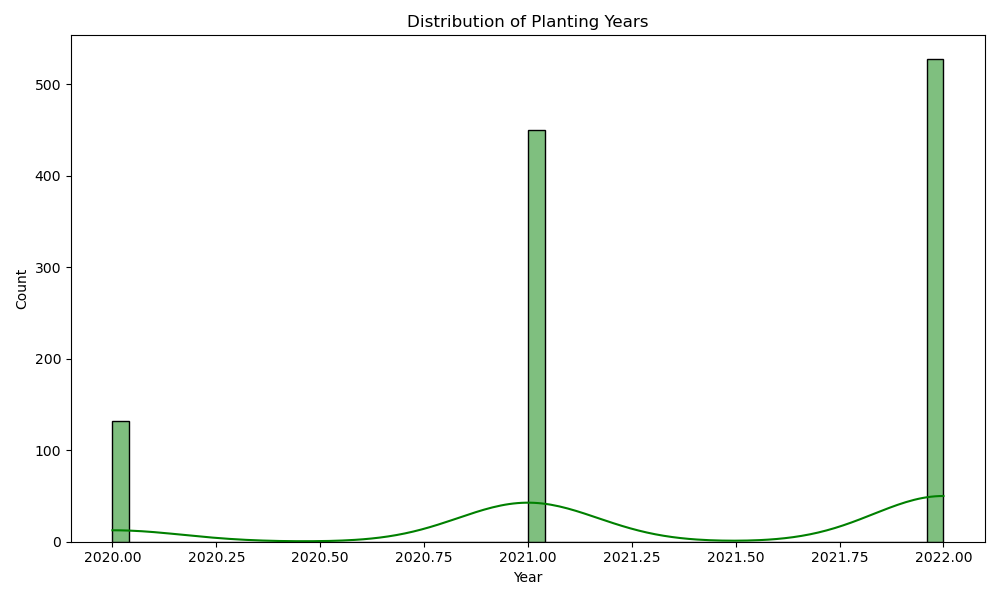
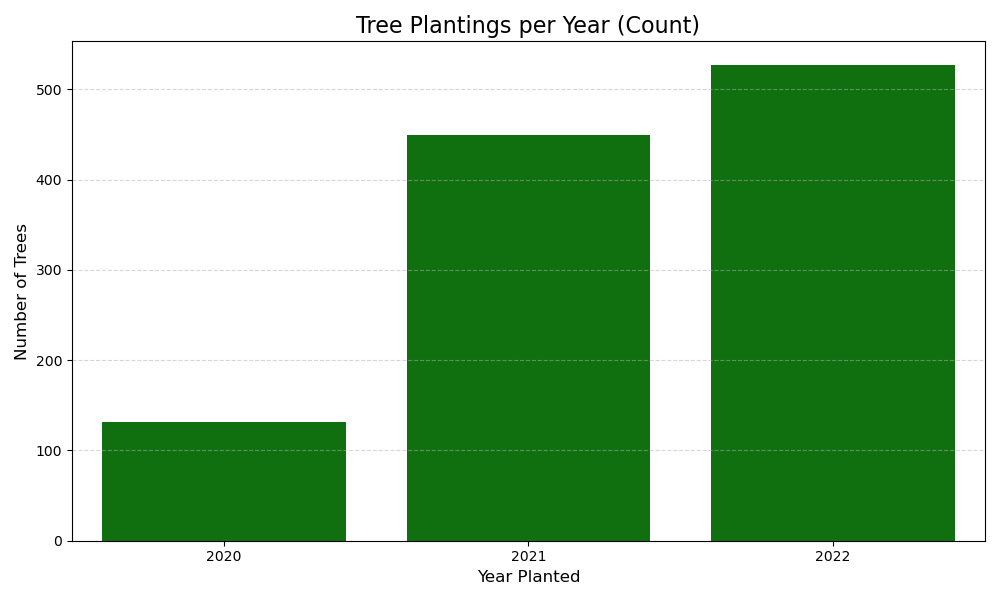
Fix Age Distribution Plot: Remove KDE and use discrete integer bins

diff --git a/scripts/generate_age_plot.py b/scripts/generate_age_plot.py
@@ -1,0 +1,37 @@
+import pandas as pd
+import seaborn as sns
+import matplotlib.pyplot as plt
+
+# Define paths
+file_path = '../data/2025_trees_steglitz.csv'
+save_path = '../results/analysis_age_dist.png'
+
+print("Loading data...")
+try:
+    df = pd.read_csv(file_path, sep=';')
+    print("Data loaded successfully.")
+except FileNotFoundError:
+    print(f"Error: File not found at {file_path}")
+    exit()
+
+# Fix: Convert 'pflanzjahr' to integer to avoid "2020.5" issues
+print("Processing data...")
+df = df.dropna(subset=['pflanzjahr'])
+df['pflanzjahr'] = df['pflanzjahr'].astype(int)
+
+# Plot
+print("Generating plot...")
+plt.figure(figsize=(10, 6))
+
+# Fix: Use discrete histogram/countplot, NO KDE
+sns.countplot(x=df['pflanzjahr'], color='green')
+
+plt.title('Tree Plantings per Year (Count)', fontsize=16)
+plt.xlabel('Year Planted', fontsize=12)
+plt.ylabel('Number of Trees', fontsize=12)
+plt.grid(axis='y', linestyle='--', alpha=0.5)
+plt.tight_layout()
+
+# Save
+plt.savefig(save_path)
+print(f"Plot saved to {save_path}")
